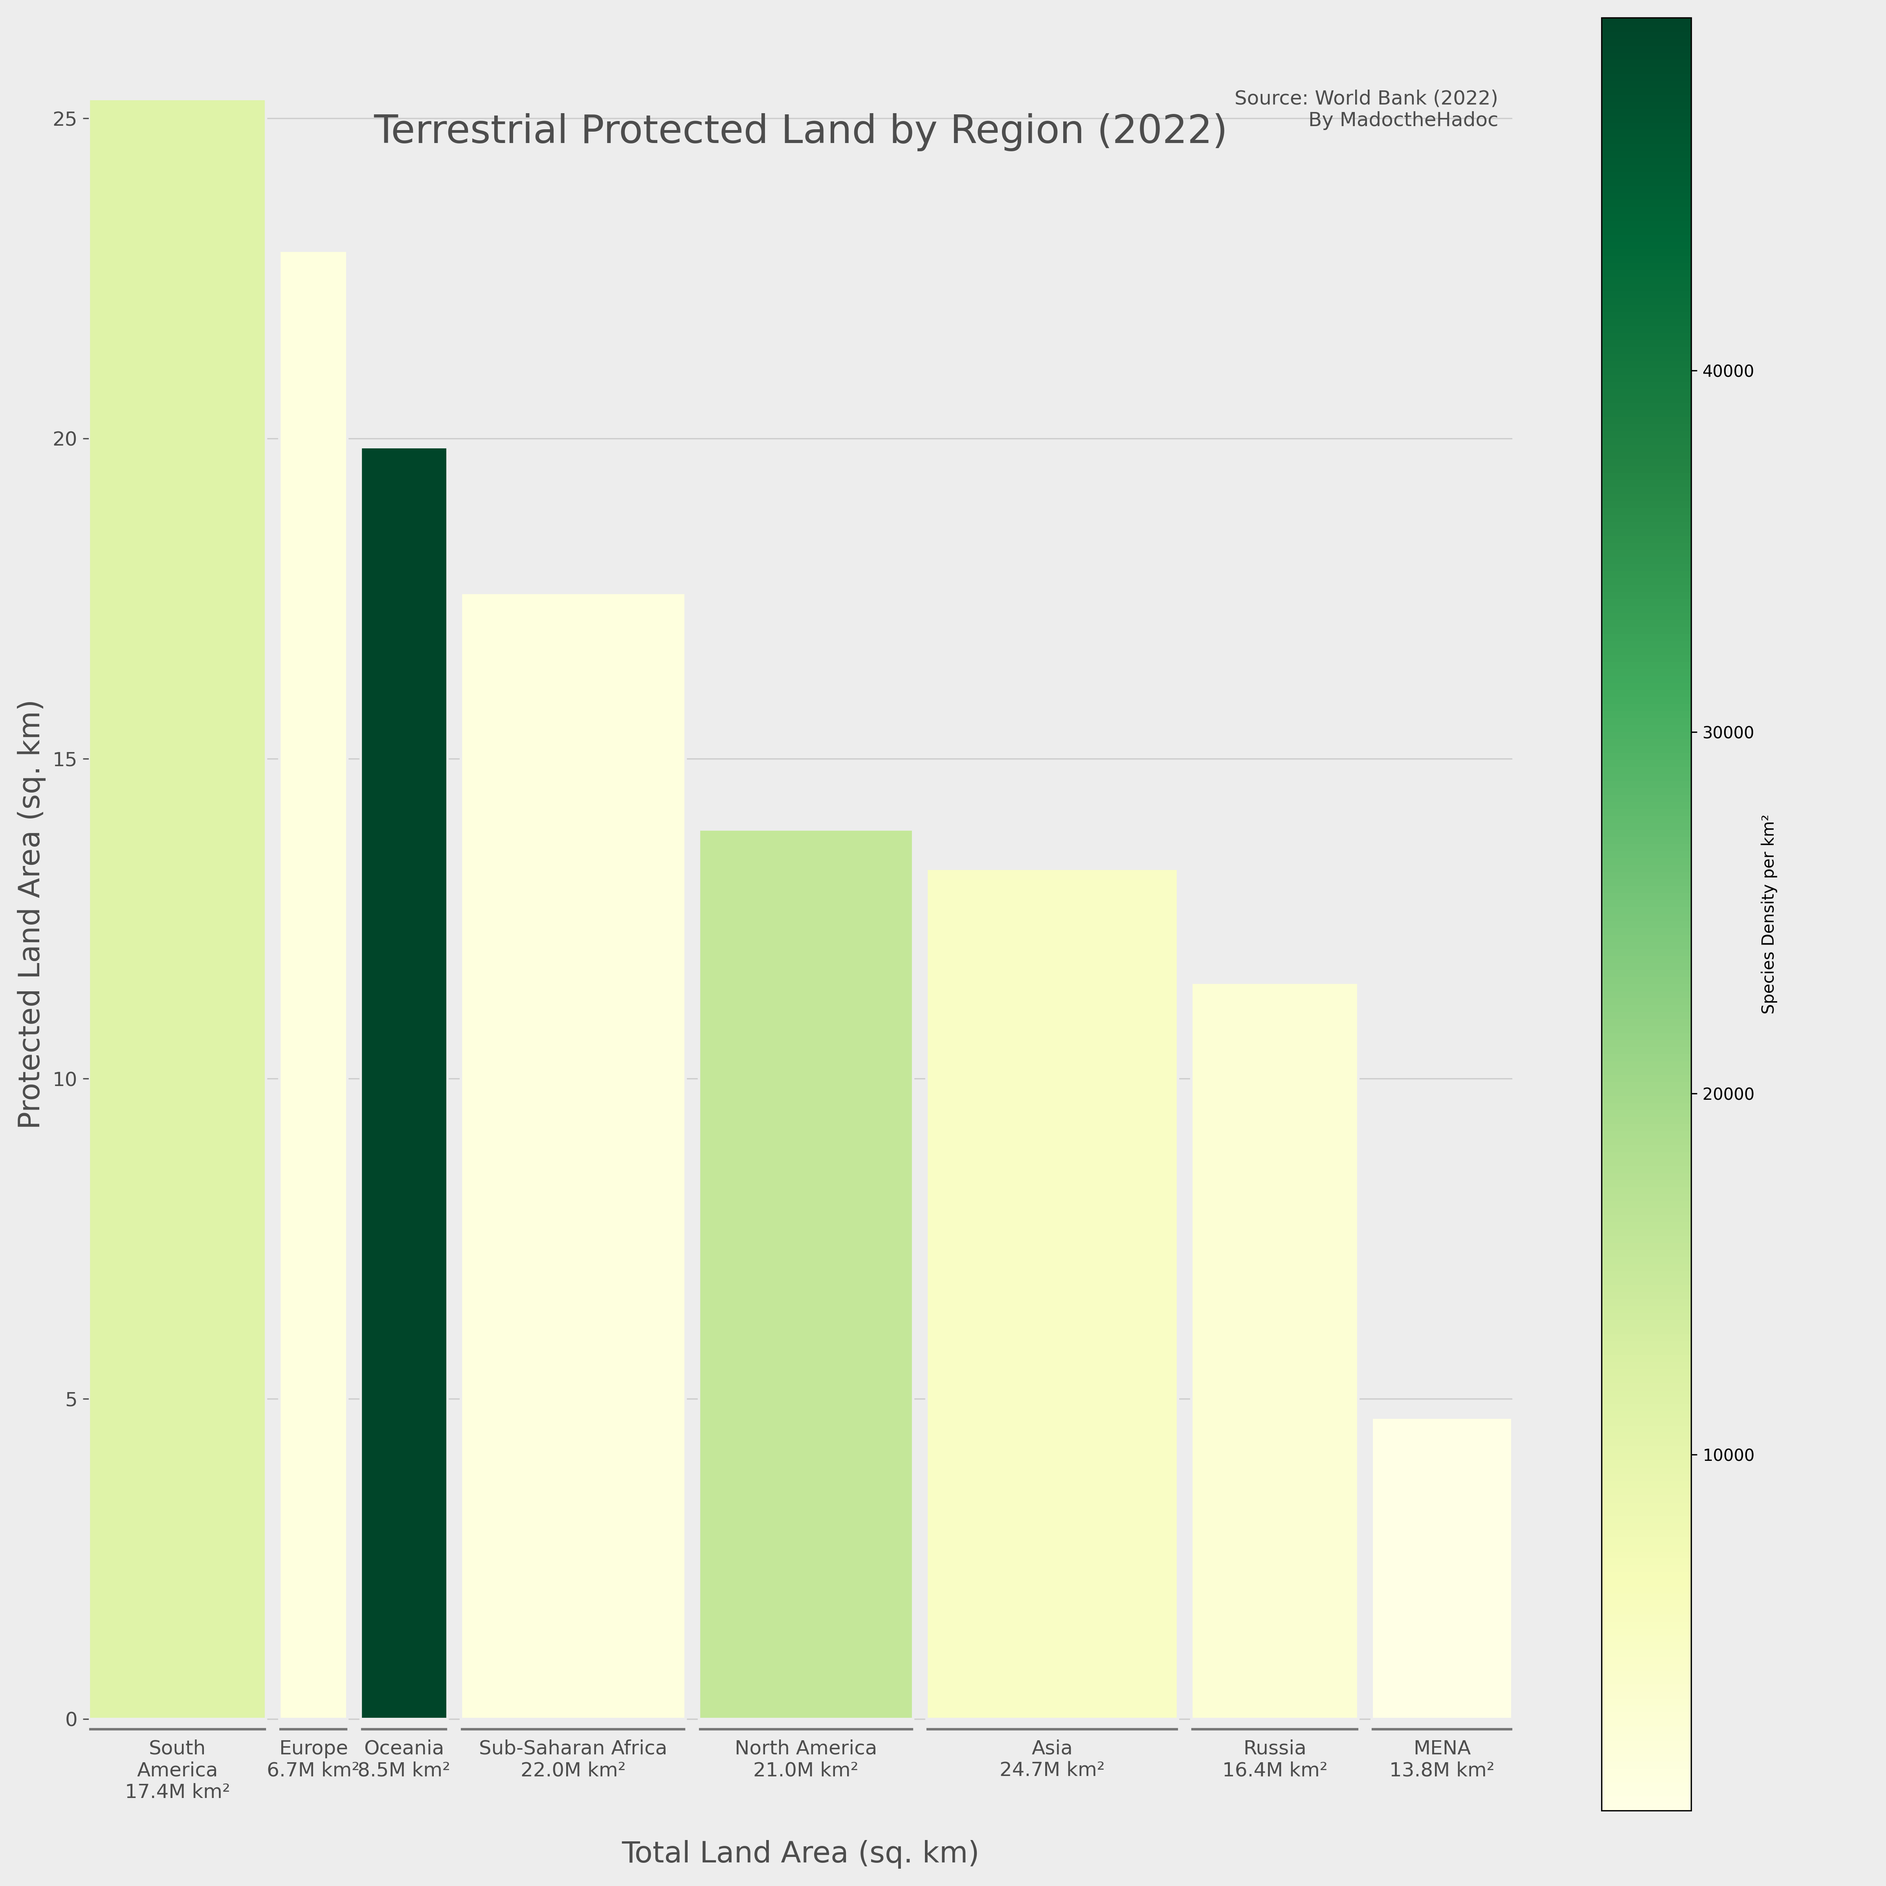
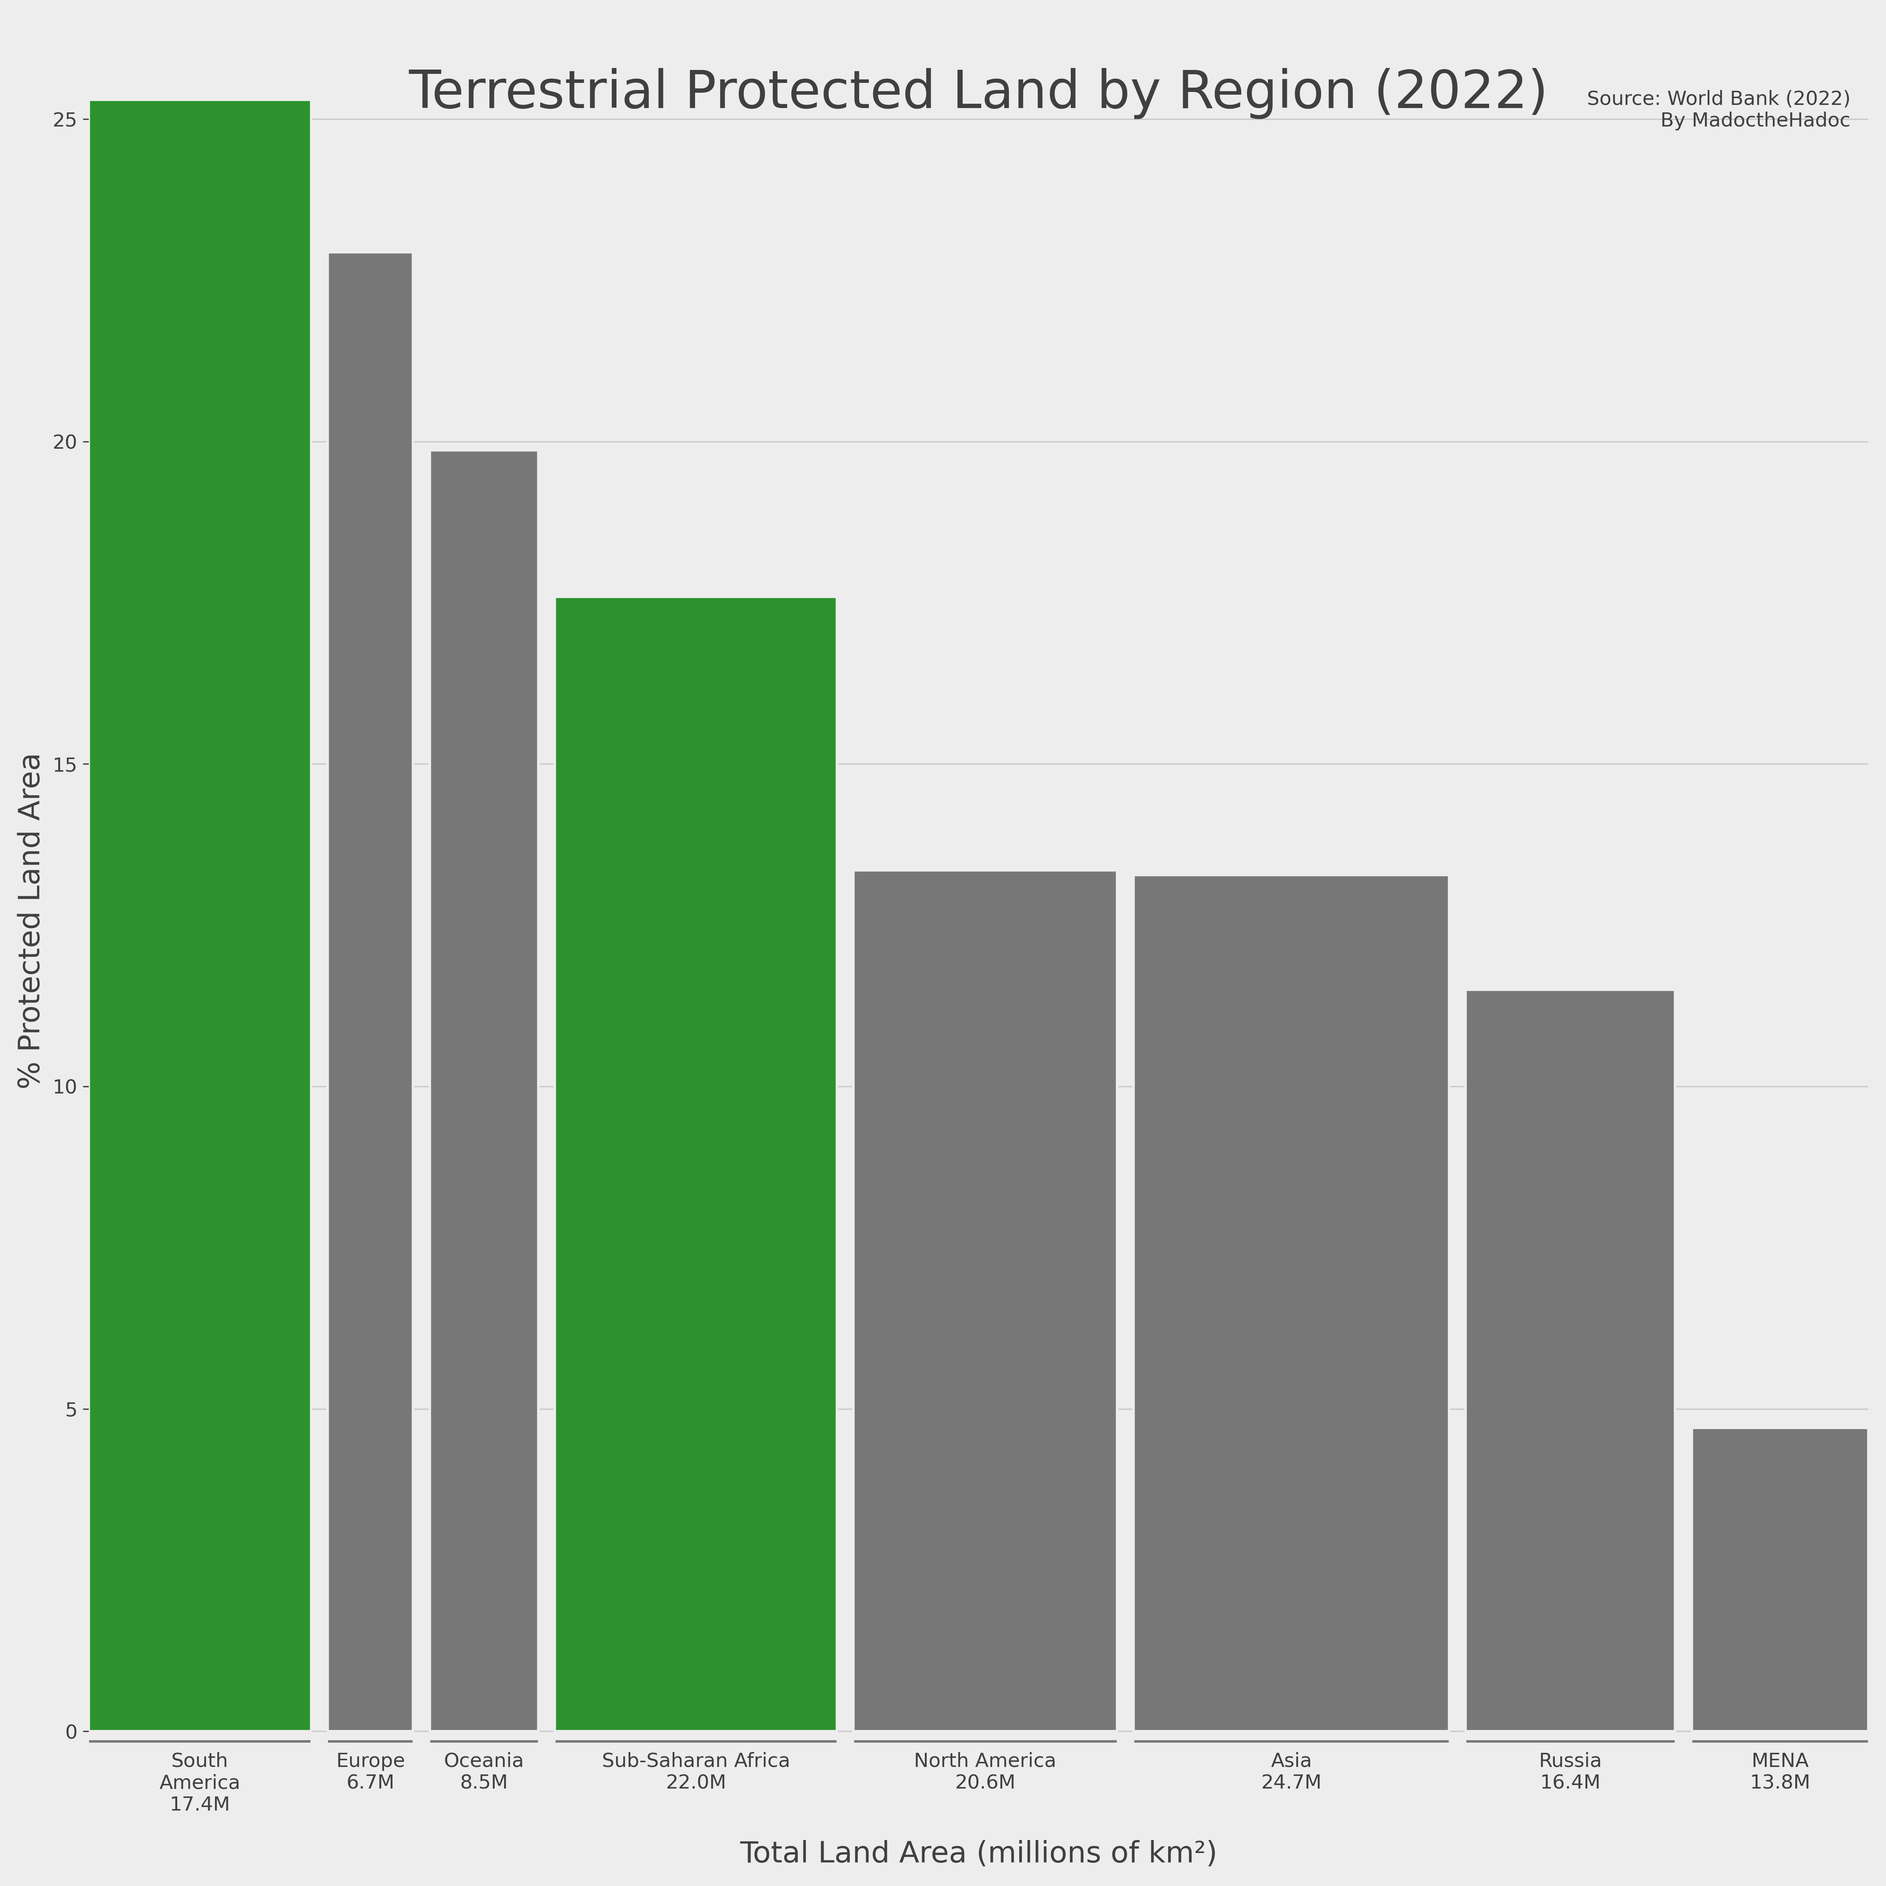
TerrestrialProtection changes

diff --git a/scripts/TerrestrialProtection.py b/scripts/TerrestrialProtection.py
@@ -23,7 +23,7 @@ INDICATORS = {
 # Define color palette
 BG_COLOR = "#ededed"
 ANNO_COLOR = "#777777"
-TEXT_COLOR = "#4D4D4D"
+TEXT_COLOR = "#404040"
 
 # Variables woah
 USE_SIMPLIFIED_REGIONS = True
@@ -89,15 +89,68 @@ SIMPLIFIED_REGIONS = [
     ]}
 ]
 
+BIOGEOGRAPHIC_REALMS = [
+    {'name': 'Nearctic', 'countries': [
+        'United States', 'Canada', 'Greenland', 'Mexico'
+    ]},
+    {'name': 'Palearctic', 'countries': [
+        'Austria', 'Belgium', 'Cyprus', 'Denmark', 'Finland', 'France', 'Germany',
+        'Greece', 'Ireland', 'Italy', 'Luxembourg', 'Malta', 'Netherlands',
+        'Portugal', 'Spain', 'Sweden', 'Norway', 'Switzerland', 'Liechtenstein',
+        'Iceland', 'Czechia', 'Latvia', 'Lithuania', 'Estonia', 'Hungary', 'San Marino',
+        'Poland', 'Romania', 'Slovak Republic', 'Slovenia', 'Bulgaria', 'Croatia',
+        'United Kingdom', 'Andorra', 'Monaco', 'Gibraltar', 'Isle of Man', 'Channel Islands',
+        'Albania', 'Armenia', 'Azerbaijan', 'Belarus', 'Bosnia and Herzegovina',
+        'Georgia', 'Kosovo', 'Moldova', 'Montenegro', 'North Macedonia', 'Serbia', 'Ukraine',
+        'Faroe Islands', 'Small states', 'Not classified', 'Russian Federation', 
+        'Kazakhstan', 'Uzbekistan', 'Turkmenistan', 'Tajikistan', 'Kyrgyz Republic', 'Afghanistan',
+        'China', 'Korea, Rep.', 'Hong Kong SAR, China', 'Macao SAR, China', 'Japan', 'Mongolia',
+        'Korea, Dem. People\'s Rep.', 'Egypt, Arab Rep.', 'Libya', 'Morocco', 'Algeria', 'Tunisia',
+        'Iran, Islamic Rep.', 'Turkiye', 'Iraq', 'Israel', 'Jordan', 'Lebanon', 'Kuwait',
+        'Syrian Arab Republic', 'West Bank and Gaza',
+    ]},
+    {'name': 'Indo-Malay', 'countries': [
+        'India', 'Pakistan', 'Bangladesh', 'Sri Lanka', 'Nepal', 'Bhutan', 'Maldives',
+        'Brunei Darussalam', 'Cambodia', 'Indonesia', 'Lao PDR', 'Malaysia', 'Myanmar',
+        'Philippines', 'Thailand', 'Viet Nam', 'Singapore', 'Timor-Leste'
+    ]},
+    {'name': 'Neotropical', 'countries': [
+        'Argentina', 'Bolivia', 'Chile', 'Colombia', 'Ecuador', 'Guyana',
+        'Paraguay', 'Peru', 'Suriname', 'Uruguay', 'Venezuela, RB', 'Brazil',
+        'Belize', 'Costa Rica', 'El Salvador', 'Guatemala', 'Honduras', 'Nicaragua', 'Panama',
+        'Antigua and Barbuda', 'Bahamas, The', 'Barbados', 'Cuba', 'Dominica',
+        'Dominican Republic', 'Grenada', 'Haiti', 'Jamaica', 'St. Kitts and Nevis',
+        'St. Lucia', 'St. Vincent and the Grenadines', 'Trinidad and Tobago',
+        'Aruba', 'British Virgin Islands', 'Cayman Islands', 'Curacao',
+        'Puerto Rico (US)', 'Sint Maarten (Dutch part)', 'St. Martin (French part)',
+        'Turks and Caicos Islands', 'Virgin Islands (U.S.)', 'Bermuda'
+    ]},
+    {'name': 'Afrotropical', 'countries': [
+        'Nigeria', 'Ghana', "Cote d'Ivoire", 'Senegal', 'Mali', 'Burkina Faso', 'Niger', 'Mauritania',
+        'Benin', 'Togo', 'Sierra Leone', 'Liberia', 'Guinea', 'Guinea-Bissau', 'Gambia, The',
+        'Cabo Verde',
+        'Ethiopia', 'Kenya', 'Tanzania', 'Uganda', 'Rwanda', 'Burundi', 'Somalia', 'Djibouti',
+        'Eritrea', 'South Sudan', 'Seychelles', 'Comoros', 'Mauritius', 'Madagascar',
+        'Cameroon', 'Central African Republic', 'Chad', 'Congo, Dem. Rep.', 'Congo, Rep.',
+        'Equatorial Guinea', 'Gabon', 'Sao Tome and Principe',
+        'South Africa', 'Botswana', 'Namibia', 'Zambia', 'Zimbabwe', 'Malawi', 'Mozambique',
+        'Angola', 'Lesotho', 'Eswatini',
+        'Saudi Arabia', 'Yemen, Rep.', 'Oman', 'Qatar', 'United Arab Emirates', 'Bahrain', 
+    ]},
+    {'name': 'Australasia', 'countries': [
+        'Australia', 'New Zealand', 'Papua New Guinea', 'Fiji', 'Solomon Islands', 'Vanuatu',
+        'Samoa', 'Kiribati', 'Micronesia, Fed. Sts.', 'Tonga', 'Palau', 'Marshall Islands',
+        'Tuvalu', 'Nauru', 'American Samoa', 'French Polynesia', 'New Caledonia',
+        'Guam', 'Northern Mariana Islands'
+    ]}
+]
+
 REGIONS = [
-    {'name': 'United States', 'countries': [
+    {'name': 'United\nStates', 'countries': [
         'United States'
     ]},
     {'name': 'Canada', 'countries': [
         'Canada'
-    ]},
-    {'name': 'Greenland', 'countries': [
-        'Greenland'
     ]},
     {'name': 'Europe', 'countries': [
         'Austria', 'Belgium', 'Cyprus', 'Denmark', 'Finland', 'France', 'Germany',
@@ -112,7 +165,7 @@ REGIONS = [
     {'name': 'Russia', 'countries': [
         'Russian Federation'
     ]},
-    {'name': 'Central Asia', 'countries': [
+    {'name': 'Central\nAsia', 'countries': [
         'Kazakhstan', 'Uzbekistan', 'Turkmenistan', 'Tajikistan', 'Kyrgyz Republic', 'Afghanistan'
     ]},
     {'name': 'East\nAsia', 'countries': [
@@ -123,10 +176,13 @@ REGIONS = [
     ]},
     {'name': 'Southeast\nAsia', 'countries': [
         'Brunei Darussalam', 'Cambodia', 'Indonesia', 'Lao PDR', 'Malaysia', 'Myanmar',
-        'Philippines', 'Thailand', 'Viet Nam', 'Singapore', 'Timor-Leste'
+        'Philippines', 'Thailand', 'Viet Nam', 'Singapore', 'Timor-Leste', 'Papua New Guinea'
     ]},
-    {'name': 'South\nAmerica', 'countries': [
-        'Argentina', 'Bolivia', 'Brazil', 'Chile', 'Colombia', 'Ecuador', 'Guyana',
+    {'name': 'Brazil', 'countries': [
+        'Brazil'
+    ]},
+    {'name': 'Rest of\nS. America', 'countries': [
+        'Argentina', 'Bolivia', 'Chile', 'Colombia', 'Ecuador', 'Guyana',
         'Paraguay', 'Peru', 'Suriname', 'Uruguay', 'Venezuela, RB'
     ]},
     {'name': 'Middle\nEast', 'countries': [
@@ -135,7 +191,7 @@ REGIONS = [
         'Yemen, Rep.', 'West Bank and Gaza'
     ]},
     {'name': 'North\nAfrica', 'countries': [
-        'Egypt, Arab Rep.', 'Libya', 'Morocco', 'Algeria', 'Tunisia', 'Sudan'
+        'Egypt, Arab Rep.', 'Libya', 'Morocco', 'Algeria', 'Tunisia', 'Sudan', 'Chad'
     ]},
     {'name': 'West\nAfrica', 'countries': [
         'Nigeria', 'Ghana', "Cote d'Ivoire", 'Senegal', 'Mali', 'Burkina Faso', 'Niger', 'Mauritania',
@@ -144,31 +200,49 @@ REGIONS = [
     ]},
     {'name': 'East\nAfrica', 'countries': [
         'Ethiopia', 'Kenya', 'Tanzania', 'Uganda', 'Rwanda', 'Burundi', 'Somalia', 'Djibouti',
-        'Eritrea', 'South Sudan', 'Seychelles', 'Comoros', 'Mauritius', 'Madagascar'
+        'Eritrea', 'South Sudan', 'Seychelles', 'Comoros', 'Mauritius'
     ]},
     {'name': 'Central\nAfrica', 'countries': [
-        'Cameroon', 'Central African Republic', 'Chad', 'Congo, Dem. Rep.', 'Congo, Rep.',
+        'Cameroon', 'Central African Republic', 'Congo, Dem. Rep.', 'Congo, Rep.',
         'Equatorial Guinea', 'Gabon', 'Sao Tome and Principe'
     ]},
     {'name': 'Southern\nAfrica', 'countries': [
         'South Africa', 'Botswana', 'Namibia', 'Zambia', 'Zimbabwe', 'Malawi', 'Mozambique',
-        'Angola', 'Lesotho', 'Eswatini'
+        'Angola', 'Lesotho', 'Eswatini', 'Madagascar'
     ]},
-    # {'name': 'Central America\n& Caribbean', 'countries': [
-    #     'Mexico', 'Belize', 'Costa Rica', 'El Salvador', 'Guatemala', 'Honduras', 'Nicaragua', 'Panama',
-    #     'Antigua and Barbuda', 'Bahamas, The', 'Barbados', 'Cuba', 'Dominica',
-    #     'Dominican Republic', 'Grenada', 'Haiti', 'Jamaica', 'St. Kitts and Nevis',
-    #     'St. Lucia', 'St. Vincent and the Grenadines', 'Trinidad and Tobago',
-    #     'Aruba', 'British Virgin Islands', 'Cayman Islands', 'Curacao',
-    #     'Puerto Rico (US)', 'Sint Maarten (Dutch part)', 'St. Martin (French part)',
-    #     'Turks and Caicos Islands', 'Virgin Islands (U.S.)'
-    # ]},
+    {'name': 'Central\nAmerica', 'countries': [
+        'Mexico', 'Belize', 'Costa Rica', 'El Salvador', 'Guatemala', 'Honduras', 'Nicaragua', 'Panama',
+        'Antigua and Barbuda', 'Bahamas, The', 'Barbados', 'Cuba', 'Dominica',
+        'Dominican Republic', 'Grenada', 'Haiti', 'Jamaica', 'St. Kitts and Nevis',
+        'St. Lucia', 'St. Vincent and the Grenadines', 'Trinidad and Tobago',
+        'Aruba', 'British Virgin Islands', 'Cayman Islands', 'Curacao',
+        'Puerto Rico (US)', 'Sint Maarten (Dutch part)', 'St. Martin (French part)',
+        'Turks and Caicos Islands', 'Virgin Islands (U.S.)'
+    ]},
     {'name': 'Oceania', 'countries': [
         'Australia', 'New Zealand', 'Papua New Guinea', 'Fiji', 'Solomon Islands', 'Vanuatu',
         'Samoa', 'Kiribati', 'Micronesia, Fed. Sts.', 'Tonga', 'Palau', 'Marshall Islands',
         'Tuvalu', 'Nauru', 'American Samoa', 'French Polynesia', 'New Caledonia',
         'Guam', 'Northern Mariana Islands'
     ]},
+]
+
+BIODIVERSITY_HOTSPOTS = [
+    REGIONS[7]['name'],  # ASEAN
+    REGIONS[8]['name'],   # Brazil
+    REGIONS[9]['name'],  # S. America
+    REGIONS[12]['name'],  # African groups:
+    REGIONS[13]['name'],
+    REGIONS[14]['name'],
+    REGIONS[15]['name'],
+    
+    SIMPLIFIED_REGIONS[4]['name'],
+    SIMPLIFIED_REGIONS[6]['name'],
+]
+
+POLAR_DESERTS = [
+    'Greenland',
+    'Antarctica'
 ]
 
 # ==================== FUNCTIONS ====================
@@ -238,20 +312,26 @@ def is_country_entity(name):
     return not any(name.startswith(geo) for geo in geographic_aggregates)
 
 def clean_data(df):
-    """Clean and prepare the data."""
+    """Clean and prepare the data, removing Greenland and Antarctica."""
+    # Sort and remove duplicates
     df = df.sort_values('date').drop_duplicates(subset=['Country'], keep='last')
+
+    # Remove Greenland and Antarctica
+    df = df[~df['Country'].isin(POLAR_DESERTS)]
+
+    # Filter out non-country entities
     df = df[df['Country'].apply(is_country_entity)]
-    
+
     # Convert to numeric and handle missing values
     numeric_columns = ['ProtectedLand_Pct', 'TotalLand_KM2']
     for col in numeric_columns:
         df[col] = pd.to_numeric(df[col], errors='coerce')
-    
+
     # Calculate derived metrics
     df['ProtectedLand_KM2'] = df['ProtectedLand_Pct'] * df['TotalLand_KM2'] / 100
-    print(df['ProtectedLand_KM2'])
-    
+
     return df
+
 
 def assign_protection_category(protection_pct):
     """Assign protection category based on percentage of protected land."""
@@ -371,18 +451,14 @@ def compute_left_positions(df_regions):
     return np.array(positions)
 
 def plot_protected_land_bars(ax, df_regions, left_positions):
-    """Plot the bars for protected land area with color based on species density."""
-    # Normalize species density for colormap
-    norm = plt.Normalize(
-        vmin=df_regions['EndemicSpecies'].min(),
-        vmax=df_regions['EndemicSpecies'].max()
-    )
-
-    # Use a colormap (e.g., 'viridis', 'plasma', 'YlGn', etc.)
-    cmap = plt.cm.YlGn  # Green gradient, but you can choose another
-
-    # Create a color for each bar based on species density
-    colors = cmap(norm(df_regions['EndemicSpecies'].values))
+    """Plot the bars for protected land area with green for biodiversity hotspots and grey otherwise."""
+    # Create a list of colors based on whether the region is a biodiversity hotspot
+    colors = []
+    for region in df_regions['Region']:
+        if region in BIODIVERSITY_HOTSPOTS:
+            colors.append('#2d922d')  # Dark green for hotspots
+        else:
+            colors.append(ANNO_COLOR)  # Grey for non-hotspots
 
     # Plot the bars with the calculated colors
     ax.bar(
@@ -395,11 +471,6 @@ def plot_protected_land_bars(ax, df_regions, left_positions):
         linewidth=1.5
     )
 
-    # Add a colorbar to show the scale
-    sm = plt.cm.ScalarMappable(cmap=cmap, norm=norm)
-    sm.set_array([])
-    plt.colorbar(sm, ax=ax, label='Species Density per km²')
-
 def configure_protected_land_axes(ax, df_regions, left_positions):
     """Configure axes with responsive styling."""
     total_width = left_positions[-1] + df_regions['Width'].iloc[-1]
@@ -409,22 +480,22 @@ def configure_protected_land_axes(ax, df_regions, left_positions):
     ax.set_xticklabels([])
 
     ax.set_xlabel(
-        'Total Land Area (sq. km)',
+        'Total Land Area (millions of km²)',
         color=TEXT_COLOR,
         fontsize=18,
-        labelpad=18
+        labelpad=10
     )
     ax.set_ylabel(
-        'Protected Land Area (sq. km)',
+        '% Protected Land Area',
         color=TEXT_COLOR,
         fontsize=18
     )
     ax.set_title(
         f'Terrestrial Protected Land by Region ({DATA_YEAR})',
         color=TEXT_COLOR,
-        fontsize=24,
+        fontsize=32,
         pad=0,
-        y=0.93,
+        y=0.95,
         loc='center'
     )
     ax.tick_params(axis='y', colors=TEXT_COLOR, labelsize=12)
@@ -449,7 +520,7 @@ def add_protected_land_labels(ax, df_regions, left_positions):
             alpha=1.0
         )
         # Label
-        label = f"{region['Region']}\n{region['TotalLand_KM2'] / 1e6:.1f}M km²"
+        label = f"{region['Region']}\n{region['TotalLand_KM2'] / 1e6:.1f}M" #km²
         ax.text(
             center,
             ygap * 2,
